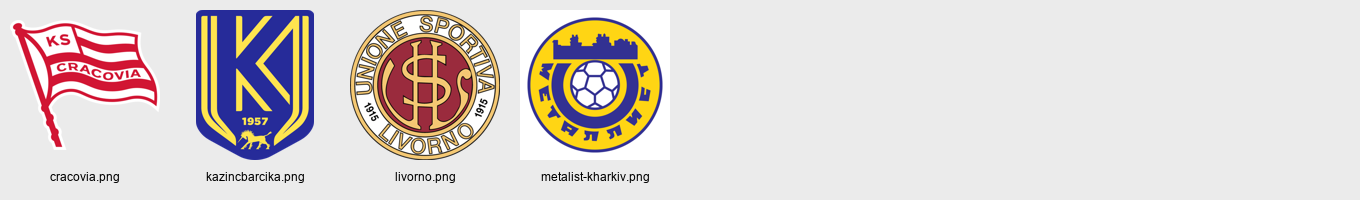
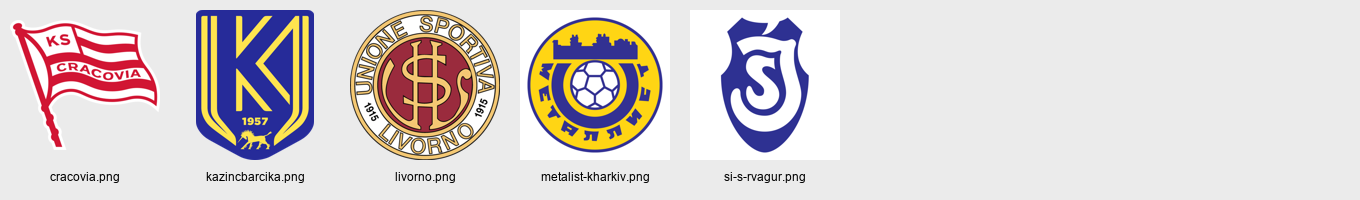
Lote 36 de escudos: inclui o SÍ Sørvágur

Changed region(s): [[0.525, 0.09, 0.6176, 0.78], [0.525, 0.87, 0.6176, 0.93]]

diff --git a/lotes/escudos-lote-36-refeito/LEIA.md b/lotes/escudos-lote-36-refeito/LEIA.md
@@ -1,6 +1,7 @@
-Lote 36 (refação pedida no retorno): 4 escudos.
+Lote 36 (refação pedida no retorno): 5 escudos.
 - cracovia: agora o escudo do KS Cracovia (bandeira vermelha e branca). Antes tinha vindo o do Wisła, o rival.
 - kazincbarcika: escudo azul e amarelo inteiro (de 1957), que aparece em fundo claro. Antes veio só o contorno amarelo sem fundo.
 - livorno: escudo da US Livorno 1915 (o clube atual), redondo com "Unione Sportiva Livorno 1915".
 - metalist-kharkiv: escudo redondo do FC Metalist Kharkiv refundado em 2019 (seeklogo "fc-metalist-kharkiv"); confira, a fonte é menos segura.
-Continuam de fora: alshariqa (não identifiquei que clube é) e si-s-rvagur (não existe imagem do escudo na internet, só fotos).
+- si-s-rvagur: escudo azul "SÍ" do Sørvágs Ítróttarfelag (seeklogo).
+Continua de fora: alshariqa. Não achei clube com esse nome em Dubai; a busca só traz o Sharjah FC (que já está no jogo como sharjah). Talvez seja um nome trocado na lista.
